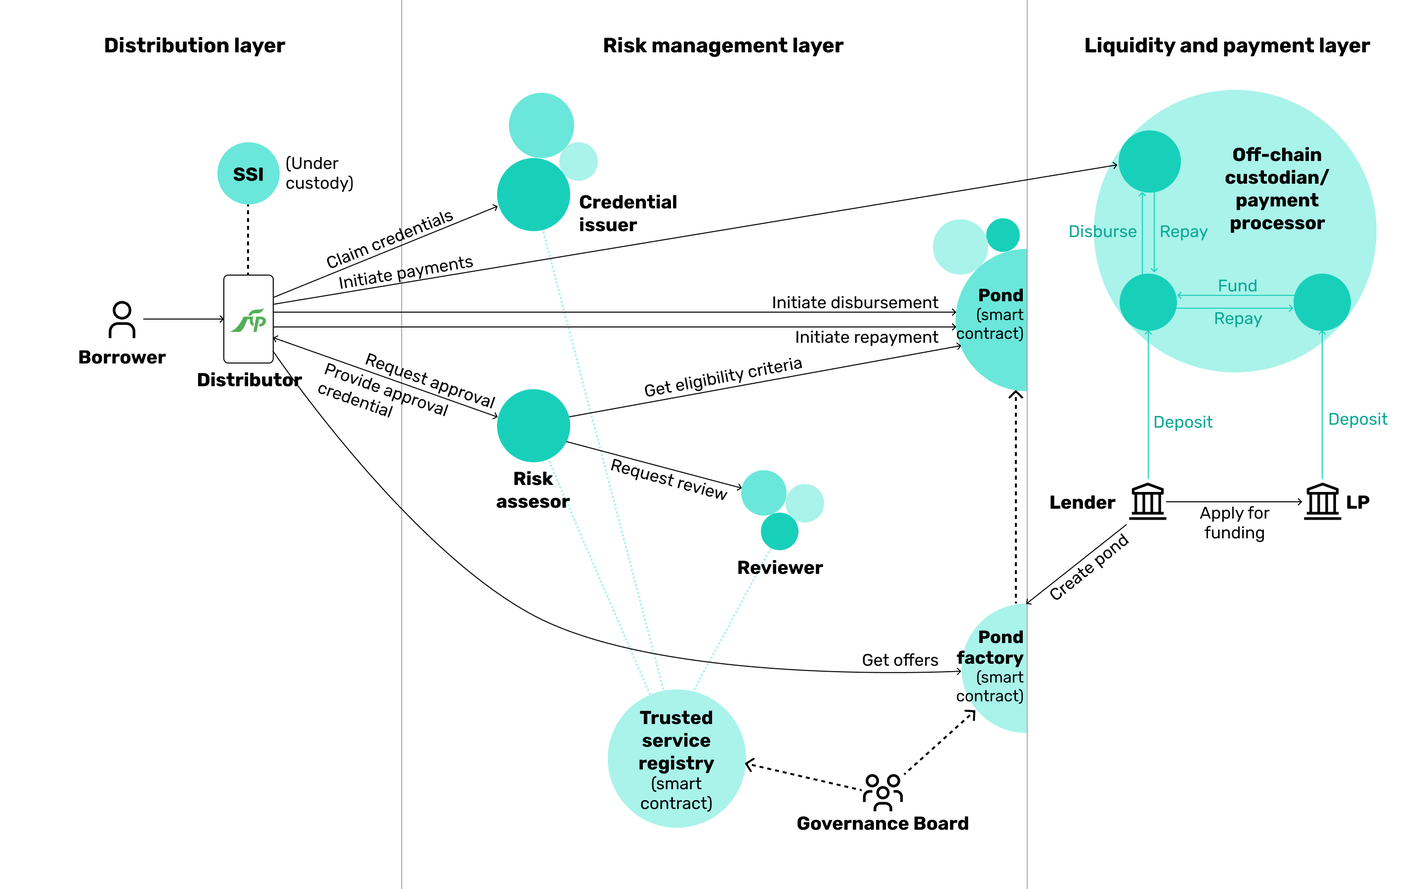
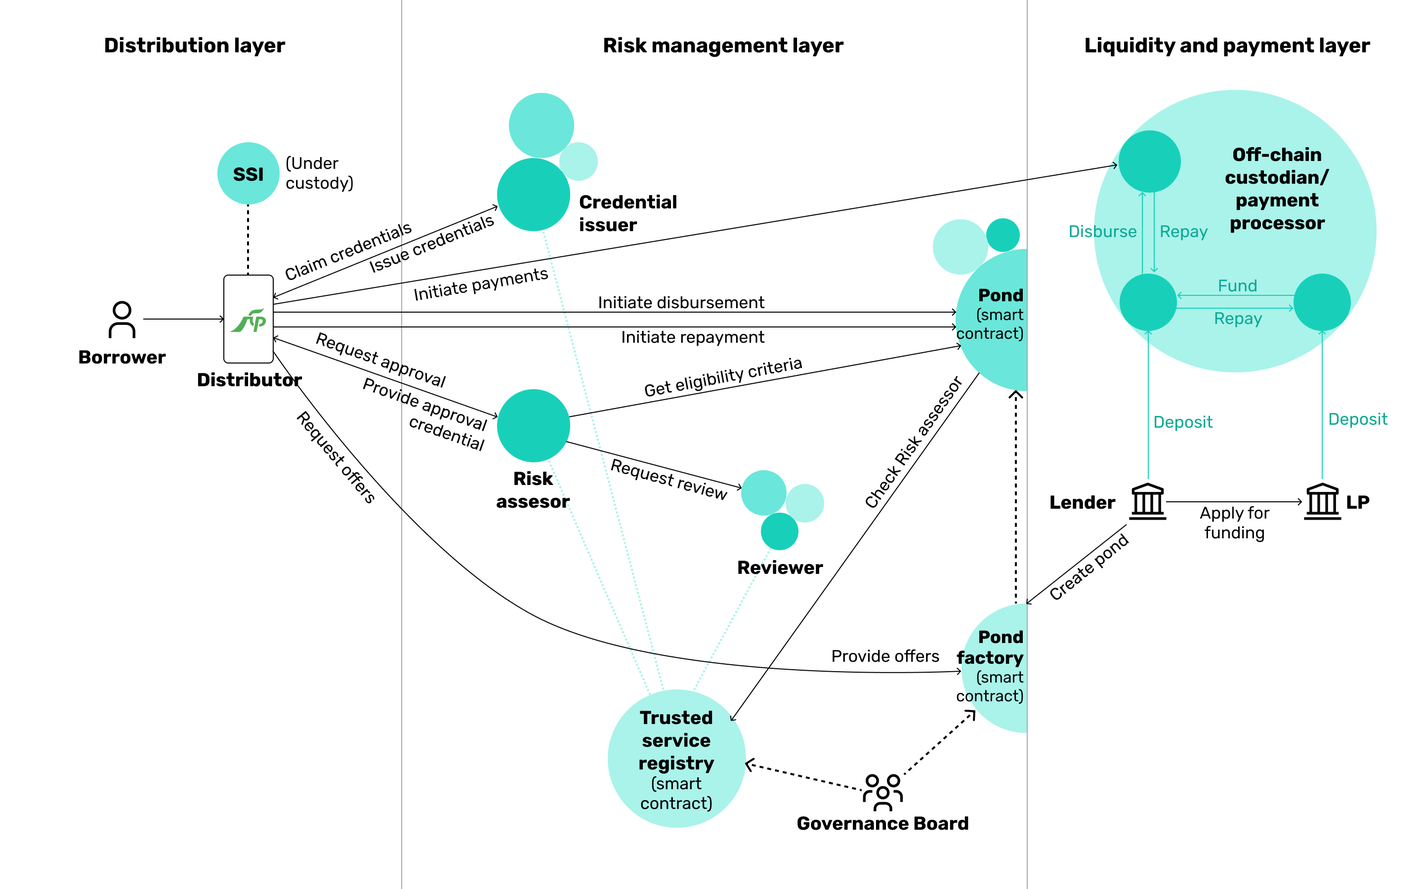
Overall documentation update

diff --git a/_layouts/default.html b/_layouts/default.html
@@ -103,8 +103,7 @@
         },
         themeCSS: 'text.actor, .messageText, .labelText, .noteText { font-family: Rubik, sans-serif; font-size: 16px; font-weight: 200; }'
     };
-    mermaid.initialize(config);
-    window.mermaid.init(undefined, document.querySelectorAll('.language-mermaid'));
+
 </script>
 
 </html>

diff --git a/flows/A-Summary-2-Participants.md b/flows/A-Summary-2-Participants.md
@@ -8,7 +8,7 @@ Borrowers can access the protocol via a Distributor in custodial model or via a 
 Borrowers usually operate on the __Distribution__ layer.
 ## Distributors
 ### Custodial Model
-**Distributors**, or also called **Custodial Providers**, intermediates access to the protocol to a speciﬁc group of Borrowers in custodial model with a simple UX. Distributors can be regulated financial institutions/fintechs, merchants, employers, or others. We envision that some Distributors may even operate as decentralized entities (DAOs).  
+**Distributors**, or also called **Last-mile Providers**, intermediates access to the protocol to a speciﬁc group of Borrowers in custodial model with a simple UX. Distributors can be regulated financial institutions/fintechs, merchants, employers, or others. We envision that some Distributors may even operate as decentralized entities (DAOs).  
 The role of the Distributor is to onboard and vet the users into its own digital means (e.g., a mobile application) and then facilitate access to the protocol. In this model, the user will have their SSFI under the custody of the Distributor.  
 Often, a Distributor might be the same as a Lender.
 
@@ -16,13 +16,13 @@ Distributors usually operate on the __Distribution__ layer and interact with __R
 ### Non-Custodial Model
 The end-user access to the protocol might be also provided in a fully decentralized non-custodial model. In this scenario, the user can access the protocol directly or through an agent wallet (decentralized web app with connected self-managed SSFI).
 ## Lenders
-**Lenders** facilitates the interaction with the protocol as they create and fund ponds using own funds or by borrowing from global pools.
+**Lenders** facilitates the interaction with the protocol as they create and fund ponds using own funds or by borrowing from global pools. Lenders can be regulated financial service providers, local communities or even governments.
 
 They will receive yield based on the pond proﬁtability, and the pond yield will tend to be higher than the pool yield, rewarding the skin-in-the-game participation of the Lender.
 
 Lenders operate on __Risk Management__ and __Liquidity__ layers.
 ## Liquidity Proviers
-**Liquidity Providers (LPs)** are institutional investors and high-net-worth individuals (HNWIs) who provide funding to the lending pools in the protocol and then delegate the actual lending activity to the Lenders.
+**Liquidity Providers (LPs)** are global institutional investors and high-net-worth individuals (HNWIs) who provide funding to the lending pools in the protocol and then delegate the actual lending activity to the Lenders.
 
 Liquidity Providers allocate capital to lending pools and get rewarded with yield based on the pool profitability. Generally, the global pool yield will tend to be lower that the pond yield due to the wholesale lending nature of pools.
 
@@ -65,7 +65,7 @@ For more information, see [Payments section](./E-Payments.md).
 Payment Processors operate on __Payments__ layer.
 ## Protocol Governance Board
 For the ﬁrst version of the protocol, we envision to begin with a more centralized governance. At a later stage, decentralization will be implemented through a governance token that will be progressively airdropped to the most active contributors based on a predeﬁned scheme. The protocol will ultimately be governed by a **DAO**, whose members will be all the protocol stakeholders. Each stakeholder will have voting rights based on their contribution to the protocol development and governance.
-  
+
 The Protocol Governance Board covers activities related to smart contract governance and fraud prevention. For more information, see [Protocol Governance section](./F-Protocol-Governance.md).
 
 Naturally, Protocol Governance Board operates on __Governance__ layer.

diff --git a/flows/C-Risk-Mgmt-3-Loan-Approval.md b/flows/C-Risk-Mgmt-3-Loan-Approval.md
@@ -6,7 +6,7 @@ sequenceDiagram
     participant SSFI App
     participant Risk Assessor
     participant Pond SC
-    participant Verification Registry SC
+    participant Trusted Service Registry SC
     Note over SSFI App: Custodial Distributor App or Self-managed wallet
     Note over Borrower: ...Borrower has credentials and loan offer
     Borrower->>SSFI App: Accept loan offer
@@ -42,11 +42,11 @@ sequenceDiagram
     SSFI App->>Pond SC: Apply for loan
     activate Pond SC
     Note right of SSFI App: Provide verification result
-    Pond SC->>Verification Registry SC: Send verification result
-    activate Verification Registry SC
-    Verification Registry SC->>Verification Registry SC: Validate Verifier
-    Verification Registry SC-->>Pond SC: Validation result
-    deactivate Verification Registry SC
+    Pond SC->>Trusted Service Registry SC: Send verification result
+    activate Trusted Service Registry SC
+    Trusted Service Registry SC->>Trusted Service Registry SC: Validate Verifier
+    Trusted Service Registry SC-->>Pond SC: Validation result
+    deactivate Trusted Service Registry SC
     alt result not OK?
         Pond SC-->>SSFI App: Loan rejected
         SSFI App-->>Borrower: "Loan rejected"
@@ -71,7 +71,7 @@ The key role in the process is played by the Risk Assessor who safely and secure
   
 Upon succesful completion of all verification checks, the Risk Assessor creates a lightweight privacy-preserving **Verification Result** assesting that a given Borrower matches the eligibility criteria of a given pond. The Risk Assessor hashes and signs the result and return it back to the SSFI App for further use in the smart contract transaction. Note that the verification result does not contain credentials to prevent leakage of sensitive personal information on-chain.
 
-Having the result from the Risk Assessor, the Distributor calls the loan application function of the Pond smart contract. The latter passes the verification result and Risk Assessor's signature as parameters to the Verification Registry contract function for validation. The registry uses the signature and the verification result to confirm whether or not the result corresponds to the public address of a trusted Verifier configured in the registry contract.
+Having the result from the Risk Assessor, the Distributor calls the loan application function of the Pond smart contract. The latter passes the verification result and Risk Assessor's signature as parameters to the Trusted Service Registry contract function for validation. The registry uses the signature and the verification result to confirm whether or not the result corresponds to the public address of a trusted Verifier configured in the registry contract.
 
 After validating the Borrower and before approving the loan, the pond performs the following final checks:
 - General pond check:
@@ -82,7 +82,7 @@ After validating the Borrower and before approving the loan, the pond performs t
   * Requested loan amount -> between Min and Max amount; if outside of the range, the pond approves the nearest amount but does not reject the request
   * Request loan duration -> between Min and Max duration; if outside of the range, the pond approves the nearest amount but does not reject the request
 - Eligibility check:
-  * By receiving confirmation of the verification result from the Verification Registry smart contract
+  * By receiving confirmation of the verification result from the Trusted Service Registry smart contract
   
 Once the loan is approved, the smart contract registers it on the chain and returns a response with the following parameters:
 - Approved amount

diff --git a/flows/D-Liquidity-2-Pond-Funding.md b/flows/D-Liquidity-2-Pond-Funding.md
@@ -1,5 +1,5 @@
 # Pond Funding
-The Growr protocol enables institutional investors to fund lending pools and ponds according to their risk/reward appetite. The protocol allows both funding models - custodial and non-custodial.
+The Growr protocol enables Liquidity Providers to fund lending pools and ponds according to their risk/reward appetite. The protocol allows both funding models - custodial and non-custodial.
 ## Off-chain Custodian Model
 The model with a Custodian has lower technology learning curve and protect the user funds from malicious actors. In this scenario, no matter whether the Lender uses own funds or applies to Liquidity Providers for funds, all transactions occur off-chain.
 ## On-chain Model
@@ -16,7 +16,7 @@ sequenceDiagram
     Lender (via dApp)->>Pond Factory SC: Get pond address
     Lender (via dApp)->>+Pond SC: Deposit funds to pond address
     Pond SC->>Pond SC: Register deposit transaction
-    Pond SC-->>-Lender (via dApp): Returns deposit receipt
+    Pond SC-->>-Lender (via dApp): Return deposit receipt
     deactivate Lender (via dApp)
     Pond SC->>Pond SC: Generate yield through lending
     activate Lender (via dApp)
@@ -24,12 +24,12 @@ sequenceDiagram
     Lender (via dApp)->>+Pond SC: Request withdrawal
     Pond SC->>Pond SC: Check available funds
     Pond SC->>Pond SC: Register withdrawal transaction
-    Pond SC->>-Lender (via dApp): Sends fund + yield
+    Pond SC->>-Lender (via dApp): Send fund + yield
     deactivate Lender (via dApp)
 ```
 ### Pool-to-pond funding
-The Growr protocol is able to operate on 2 levels – global pools and local ponds. Global pools are funded by institutional investors who then delegate the actual lending activity to local guilds with local lending ponds.  
-A lending pool can be created by any institutional investor with enough capital (threshold to be deﬁned by the protocol governance) who speciﬁes the initial pool parameters. Investors can safely deposit funds into lending pools according to their preferences and based on automatic vetting using their own SSFI and veriﬁable credentials, e.g., applicable AML/CFT checks, required by the pool creator.
+The Growr protocol is able to operate on 2 levels – global pools and local ponds. Global pools are funded by Liqudity Providers who then delegate the actual lending activity to local guilds with local lending ponds.  
+A lending pool can be created by any institutional investor with enough capital (threshold to be deﬁned by the protocol governance) who speciﬁes the initial pool parameters. Liquidity Providers can safely deposit funds into lending pools according to their preferences and based on automatic vetting using their own SSFI and veriﬁable credentials, e.g., applicable AML/CFT checks, required by the pool creator.
 
 The flow for pool creation and funding is the same as the flow for pond creation and funding. For more details, visit [Pond Creation section](./D-Liquidity-1-Pond-Creation.md).
 

diff --git a/flows/C-Risk-Mgmt-1-Introduction.md b/flows/C-Risk-Mgmt-1-Introduction.md
@@ -7,7 +7,7 @@ Each participant in the ecosystem has a risk management role:
 - **Credential Issuers** assert facts about the Borrowers in the form of credentials.
 - **Credential Verifiers** validates the credentials.
 - **Risk Assessors** orchestrate the risk assessment activities and confirms that a Borrower matches the loan requirements.
-- **Registry Smart Contracts** validate that risk assessment is prepared by trusted Risk Assessors.
+- **Trusted Registries** validate that credentials are issued by trusted Issuers and risk assessments are prepared by trusted Risk Assessors.
 - **Pond Smart Contracts** take decision based on the input from the above-mentioned risk management service providers.
 - **Lenders** distribute part of the profit with all participants to motivate them to properly execute their risk management functions.
 - **Protocol Governance Board** decides which participants are trusted and excludes the ones that misbehave.
@@ -16,9 +16,9 @@ Each participant in the ecosystem has a risk management role:
 Each participant is incentivized by the protocol to fairly fulfil its duties, as follows:
 - With positive behaviour in terms of regularly repaid loans, **Borrowers** increase their credit risk score. And better risk score translates to better lending conditions - increased amount limit and decreased interest rate.
 - **Credential Issuers**, **Credential Verifiers** and **Risk Assessors** receive a fee for the services they provide. In case of poor execution of their risk management function, the respective participant is blacklisted from the protocol. In addition, risk management service providers might be required to stake protocol tokens as a guarantee for their fair participation.
-- **Lenders** and **Liquidity** Providers are incentivized to ensure sufficient level of risk management in order to decrease the cost of default and respectively to increase their profit.
+- **Lenders** and **Liquidity Providers** are incentivized to ensure sufficient level of risk management in order to decrease the cost of default and respectively to increase their profit.
   
 ## Privacy-preservation
 The loan information stored on-chain does not contain any personal data. In the future protocol implementation, we also envision the usage of zero-knowledge proof (ZKF) model, in which even the SSFI address of the user could not be revealed.
 
-TBD-description
+TBD. More details on data privacy will be provided in the next version of the protocol documentation.

diff --git a/flows/D-Liquidity-1-Pond-Creation.md b/flows/D-Liquidity-1-Pond-Creation.md
@@ -5,13 +5,14 @@ Below is a diagram that illustrates the steps for creation of a lending pond.
 sequenceDiagram
     participant Lender (via dApp)
     participant Pond Factory SC
+    participant Trusted Service Registry SC
     activate Lender (via dApp)
     opt optional
-        Lender (via dApp)->>Verification Registry SC: Create Verification Registry SC
-        Note left of Verification Registry SC: Lender might rely on existing registry
+        Lender (via dApp)->>Trusted Service Registry SC: Create Trusted Service Registry SC
+        Note left of Trusted Service Registry SC: Lender might rely on existing registry
         loop
-            Lender (via dApp)->>+Verification Registry SC: Add/remove trusted Verifier(s)
-            Verification Registry SC->>-Lender (via dApp): "Registered Verifier"
+            Lender (via dApp)->>+Trusted Service Registry SC: Add/remove trusted Verifier(s)
+            Trusted Service Registry SC->>-Lender (via dApp): "Registered Verifier"
         end
     end
     Lender (via dApp)->>+Pond Factory SC: Request pond creation
@@ -40,7 +41,7 @@ The parameters for pond creation includes:
 
 Once created, pond parameters cannot be changed. If the pond owner wants to modify certain parameters, they would create a new pond.
 
-An important parameter of every pond is the configured address of Verification Registry smart contract. The pond will rely on this smart contract to validate that the eligibility check was performed by a trusted Risk Assesor. Verification Registry contracts can be created either by pond owners (more risky) or by the protocol governance body (more secure).  
+An important parameter of every pond is the configured address of Trusted Service Registry smart contract. The pond will rely on this smart contract to validate that the eligibility check was performed by a trusted Risk Assesor. Trusted Service Registry contracts can be created either by pond owners or by the protocol governance body (recommended).  
 The protocol envisions a possibility for the owner to stop or pause the lending from a pond i.e. to permanently or temporary block future loan approvals from a pond.
 
 Pond funding in this model occurs entirely off-chain.

diff --git a/flows/B-Identity-3-Credentials-Verification.md b/flows/B-Identity-3-Credentials-Verification.md
@@ -7,7 +7,9 @@ sequenceDiagram
     participant Borrower (Subject)
     participant SSFI App
     participant Credential Verifier
-    participant Trusted Registries
+    participant Trusted Service Registry SC
+    participant Credential Status Registry SC
+    participant Verification Registry SC
     Note over SSFI App: Custodial Distributor App or Self-managed wallet
     Borrower (Subject)->>SSFI App: Request credentials verification
     activate SSFI App
@@ -15,15 +17,15 @@ sequenceDiagram
     SSFI App->>SSFI App: Build and sign credential presentation
     SSFI App->>Credential Verifier: Send credential presentation
     activate Credential Verifier
-    opt
-        Credential Verifier->>Trusted Registries: Check in Trusted Issuers registry
-        Credential Verifier->>Trusted Registries: Check in Status registry
+    Credential Verifier->>Trusted Service Registry SC: Check issuer
+    opt  
+        Credential Verifier->>Credential Status Registry: Check status
     end
     Credential Verifier->>Credential Verifier: Verify credentials
     alt If OK?
         opt
             Credential Verifier->>Credential Verifier: Build & sign verification result
-            Credential Verifier->>Trusted Registries: Store verification result in registry
+            Credential Verifier->>Verification Registry SC: Send verification result
         end
         Credential Verifier->>SSFI App: Credential verified
         Note left of Credential Verifier: (Optionally) Send verification result
@@ -40,5 +42,5 @@ The credential verification performed by the Verifier includes the following tas
 - Verify that the credential is signed by a trusted Issuer
 - Verify that the credential is not expired
 - Verify that the credential is not revoked
-  
+
 This verification process is part of the overall loan approval process. For more details, see [Loan Approval section](./C-Risk-Mgmt-3-Loan-Approval.md).

diff --git a/flows/F-Protocol-Governance.md b/flows/F-Protocol-Governance.md
@@ -1,6 +1,7 @@
 # Protocol Governance
 ## Governance Token
-TBD-description
+TBD. Details on protocol token economics will be provided in the next version of the protocol documentation. 
+
 ## Governance Board
 ### Pool Factory governance
 The Governance Board will manage the deployed instance of the Pool Factory smart contract and will decide on:
@@ -12,15 +13,16 @@ The Governance Board will manage the deployed instance of the Pond Factory smart
 - Applicable lending pond parameters
 - Backstop potentially fraudulent ponds
 
-### Verification Registry governance
-The Governance Board will manage the deployed instance of the global Verification Registry smart contract and will decide on:
+### Trusted Service Registry governance
+The Governance Board will manage the deployed instance of the global Trusted Service Registry smart contract and will decide on:
 - New trusted Risk Assessors to be added
-- Risk Assessors with bad behavior or low performance to be removed
+- New trusted Issuers to be added
+- Risk Assessors and Issuers with bad behavior or low performance to be removed
 
 ### Governance of other registries
-The Governance Board could also manage other registries such as:
-- Trusted Issuers registry
-- Credential Status/Revocation list
+The Governance Board could also support and supervise the management of other registries (usually managed by Credential Issuers) such as:
+- Credential Status list
+- Credential Revocation list
 
 ## Safety Funds
 In order to provide the Governance Board with incentive to assume responsibility for governance failures, Growr will require the board members to stake their tokens to activate governance power. As an additional safety measure, the protocol will continuously route a portion of the fees generated by the protocol to the safety funds of the protocol.

diff --git a/flows/E-Payments.md b/flows/E-Payments.md
@@ -9,6 +9,6 @@ In the on-chain payments model, all transactions are executed on-chain, includin
 ### Off-ramp (Growr to off-chain account)
 Growr protocol will integrate with third-party bridges to enable direct payouts after loan disbursement and for withdrawal of investments from the lending pools. Those third parties will provide access to payment rails currently operated by traditional ﬁnancial providers (e.g., card rails, instant payments, ACHs, etc.).
 ### On-ramp (off-chain account to Growr)
-Similarly, for the needs of depositing funds into the Growr lending pools by investors, and for the repayment of loans by the borrowers, the protocol will support integration with various on-ramp methods speciﬁc for each geography. We plan to utilize third-party services, including decentralized on-ramp networks.
+Similarly, for the needs of depositing funds into the Growr lending pools by Liquidity Providers, and for the repayment of loans by the borrowers, the protocol will support integration with various on-ramp methods speciﬁc for each geography. We plan to utilize third-party services, including decentralized on-ramp networks.
 ## Off-chain (Custodian)
 In the off-chain payment model, the payments between Lenders and Borrowers are settled by traditional payments providers (Payment Processors). The Payment Processor in Growr protocol is required to issue "proof-of-pay" credentials to attest the payments are settled. The Payment Processor might also faciliate the payments between Liquidity Providers and Lenders in case of off-chain pond funding.

diff --git a/architecture/E-Distributor-Apps.md b/architecture/E-Distributor-Apps.md
@@ -1,4 +1,15 @@
 # Protocol Distribution Apps
-Distributor Apps are end-user web and mobile applications. Such application can be provided either by an independent last-mile ﬁnancial service providers in a regulated custodial scenario or completely decentralized dApps providing the necessary access to the protocol.
+Distributor Apps are end-user web and mobile applications. Such application can be provided either by an independent last-mile ﬁnancial service providers in a regulated custodial scenario, by local communities or as completely decentralized dApps providing the necessary access to the protocol.
 ## Peseta Neobank
-TBD-sample application
+Peseta is the first last-mile application (Distributor App) integrated with Growr protocol. It is built especially for El Salvador and demonstrates the concepts of the protocol from a user perspective.
+
+The key features of the first version of Peseta app include:
+- Onboarding and creation of blockchain-based financial profile combining off-chain and on-chain data.
+- Traditional credit score via Open Banking API, mixed up with alternative risk assessment data.
+- Saving goals for important life needs or events.
+- Low-cost payments leveraging Lightning Network-based integration with Chivo wallet via submarine swaps (RBTC/⚡BTC).
+- Instant loans based on collected verifiable credentials and the achieved credit score.
+- Gamification to engage the users and get them embark on short educational quests every week
+
+For more details on Peseta, please visit [Peseta web site](https://www.peseta.xyz).
+

diff --git a/introduction/C-Use-Cases.md b/introduction/C-Use-Cases.md
@@ -7,7 +7,7 @@ The global microfinance market amounted to $124B in 2018 [(link)](https://www.co
 The global buy now pay later market size is expected to reach USD 20.40 billion by 2028, registering a CAGR of 22.4% from 2021 to 2028 [(link)](https://www.researchandmarkets.com/reports/5416019/global-buy-now-pay-later-market-size-share-and). However, this business model remains out of reach for micro-merchants in the developing world. Enabling access to a global lending protocol at a local shop could prove transformational for the local communities.
 ## Lending to vulnerable social groups
 Vulnerable populations such as victims of violence and micro-merchants from poor communities are a prime beneficiary of the protocol. Such populations can rely on memberships within local associations, who can become both credential providers and funding donors.
-Donation impact transparency
+## Donation impact transparency
 In addition to lending, donations can also benefit from a global and open protocol, giving the donors a complete transparency of the impact of each dollar they give.
 ## Informal community savings groups
 Over the last 25 years, development organizations have trained about 750,000 savings groups, with over 15M members, across 73 countries [(link)](https://mangotree.org/what-are-savings-groups). Digitalizing such savings groups can bring about a global revolution in financial health as more communities get access to and begin to utilize this concept.

diff --git a/architecture/B-Core-Protocol.md b/architecture/B-Core-Protocol.md
@@ -1,4 +1,4 @@
 # Core Protocol
-The core protocol is based on smart contracts on the RSK chain that match supply and demand, connecting investors to borrowers with their preferred risk proﬁle. Each lending pool, each local pond, as well as each individual loan, are powered by smart contracts. We foresee the initial currency of choice to be USD-denominated stablecoin such as RDOC. The RSK smart contract network, protected by the Bitcoin network computing power and hashing mechanism, will ensure the security of the smart contracts and transactions.
+The core protocol is based on smart contracts on the RSK chain that match supply and demand, connecting Liquidity Providers to Borrowers with their preferred risk proﬁle. Each lending pool, each local pond, as well as each individual loan, are powered by smart contracts on RSK chain. The RSK smart contract network, protected by the Bitcoin network computing power and hashing mechanism, will ensure the security of the smart contracts and transactions. We foresee the initial currency of choice to be USD-denominated stablecoin such as RDOC.
 
-For more details on the protocol architecture, please vist [Growr protocol's repo in Github](https://github.com/growr-xyz/growr-core-protocol/wiki).
+For more details on the core protocol's architecture, please vist [Growr protocol's repo in Github](https://github.com/growr-xyz/growr-core-protocol/wiki).
